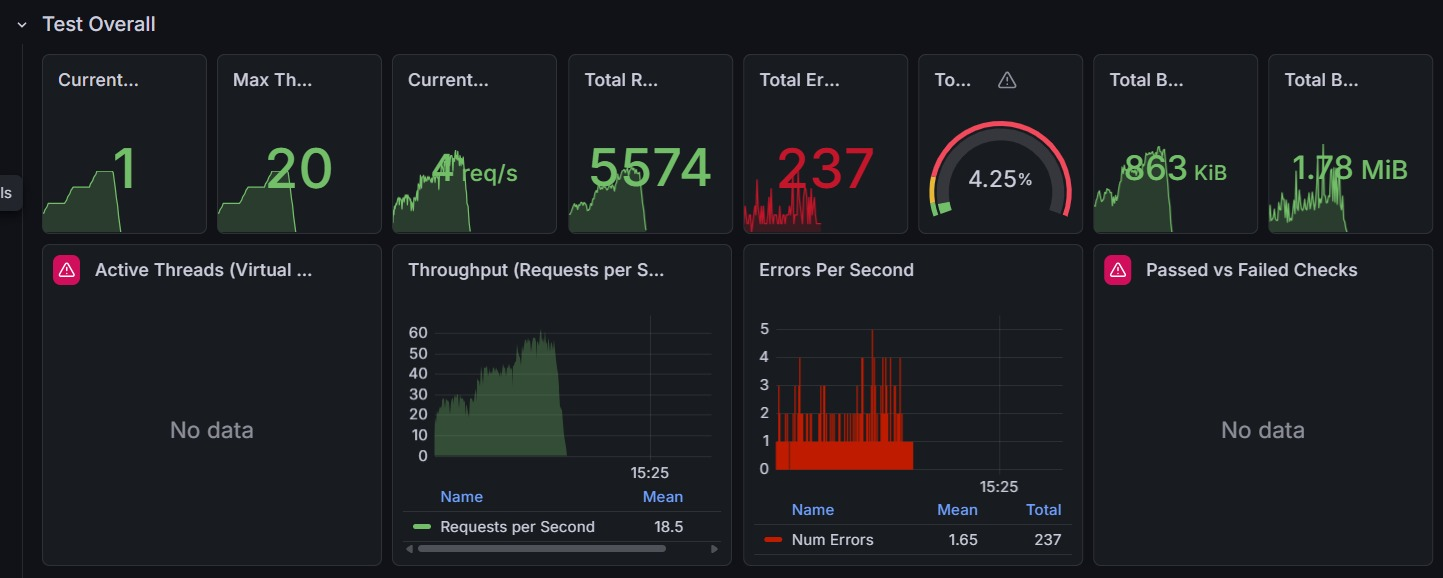
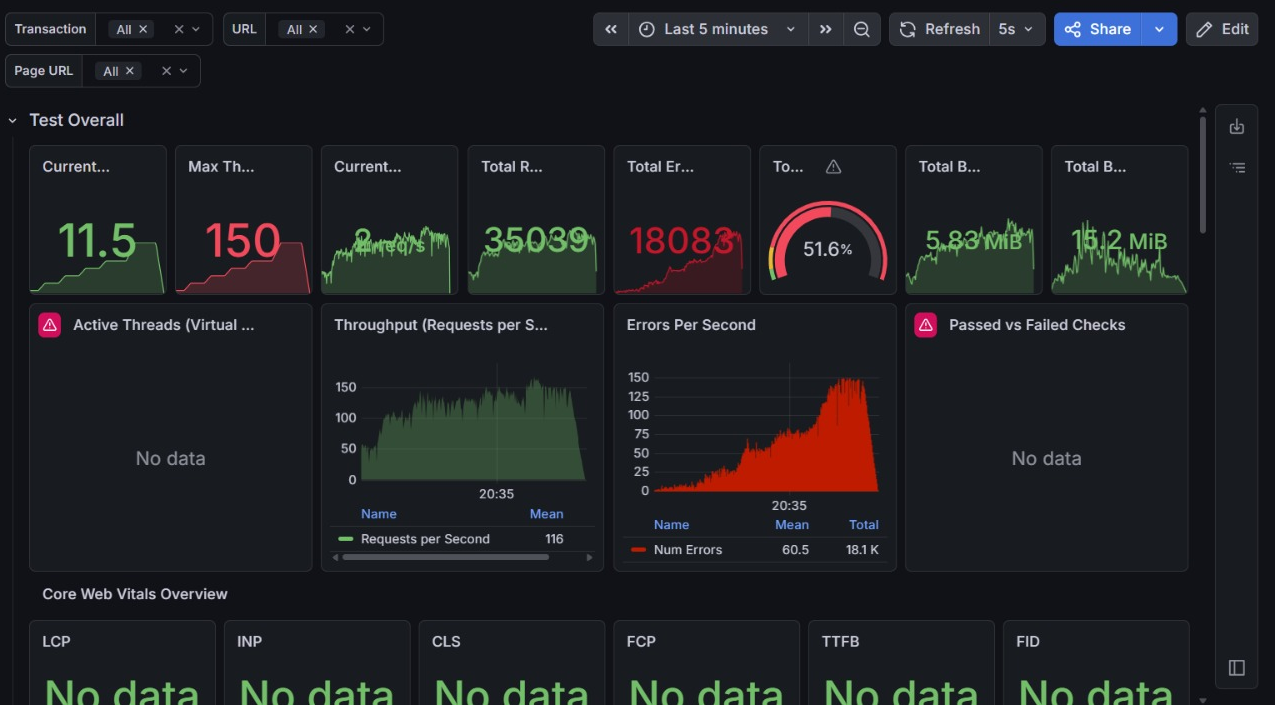
docs: atualização do relatório com o teste de chekout

diff --git a/Teste_De_Carga.md b/Teste_De_Carga.md
@@ -113,16 +113,14 @@ Para garantir alta disponibilidade e atingir nossa meta de SLA (abaixo de 500ms)
 
 **Arquivos envolvidos:**
 
-* UsuarioController.java
-* PatenteController.java
-* CarrinhoController.java
-* AquisicaoController.java
+* [UsuarioController.java](src/main/java/io/github/leonluz/gatewayapi/autenticacao/controller/UsuarioController.java)
+* [PatenteController.java](src/main/java/io/github/leonluz/gatewayapi/patentes/controller/PatenteController.java)
+* [CarrinhoController.java](src/main/java/io/github/leonluz/gatewayapi/pedidos/controller/CarrinhoController.java)
+* [AquisicaoController.java](src/main/java/io/github/leonluz/gatewayapi/pedidos/controller/AquisicaoController.java)
 
 **Arquivos com o código fonte de medição do SLA:**
 
 * teste-aquisicao-checkout.js
-
-**Data da medição:** 01/06/2026
 
 **Descrição das configurações:**
 
@@ -132,23 +130,67 @@ Para garantir alta disponibilidade e atingir nossa meta de SLA (abaixo de 500ms)
 
 * **Ambiente de Teste:** Máquina Windows local, disparos realizados via Windows PowerShell, com monitoramento em tempo real via InfluxDB 1.8.
 
+**MEDIÇÃO 1** (como atualizei o teste, fiz uma nova medição na versão anterior)
+
+**Data da medição:** 05/06/2026
+
 **Testes de carga (SLA):**
 
-* **Latência (Tempo de Resposta Médio - p95):** 18.35 ms
+* **Latência (Tempo de Resposta Médio - p95):** 55.43 ms
 
-* **Vazão:** 21.47 requisições por segundo (Total de 4199 checks realizados).
+* **Vazão:** 89.92 requisições por segundo (Total de 31478 checks realizados).
 
-* **Concorrência:** 20 requisições simultâneas mantidas de forma constante (VUs).
+* **Concorrência:** 150 requisições simultâneas mantidas de forma constante (VUs).
 
-* **Taxa de Erro:** 3.17% (Falhas na validação da transação de aquisição).
+* **Taxa de Erro:** 13.35% (Falhas na validação da transação de aquisição).
 
 ![Imagem teste3 grafana](image-6.png)
 ![Imagem teste3 PowerShell](image-7.png)
 
 **LEVANTAMENTO DE HIPÓTESES dos potenciais gargalos do sistema que influenciam esta funcionalidade:**
 
-**Concorrência no Controle de Estoque (Race Condition):** A taxa de falha de 3.17% pode indicar que o sistema está falhando ao tentar reservar itens em estoque simultaneamente.
+**Concorrência no Controle de Estoque (Race Condition):** A taxa de falha de 13.35% pode indicar que o sistema está falhando ao tentar reservar itens em estoque simultaneamente.
 
 **Saturação do Pool de Conexões:** Como a operação de checkout envolve múltiplas tabelas (Carrinho, Estoque, Transação), se o HikariCP estiver com um limite de conexões baixo, as threads do Tomcat podem ficar em estado de WAITING, esperando uma conexão livre com o MySQL, o que explica a variação na latência em cenários de alta concorrência.
 
 **Latência de Escrita (I/O do Banco):** A necessidade de garantir o ACID em múltiplas inserções de tabelas distintas exige que o MySQL faça o flush dos logs de transação para o disco a cada checkout. Tornando-se um gargalo que limita a vazão (Throughput).
+
+**MEDIÇÃO 2**
+
+**Data da medição:** 05/06/2026
+
+**Testes de carga (SLA):**
+
+* **Latência (Tempo de Resposta Médio - p95):** 82.14 ms
+
+* **Vazão:** 80.68 requisições por segundo (Total de 29958 checks realizados).
+
+* **Concorrência:** 150 requisições simultâneas mantidas de forma constante (VUs).
+
+* **Taxa de Erro:** 0.03% (Falhas na validação da transação de aquisição).
+
+![Imagem teste3 grafana v2](image-13.png)
+![Imagem teste3 PowerShell v2](image-14.png)
+
+**Comparação:**
+
+|   Métricas   |  Medição 1  |  Medição 2  |
+|:------------:|:-----------:|:-----------:|
+|   Latência   |  55.43 ms   |  82.14 ms   |
+|    Vazão     | 84.92 req/s | 80.62 req/s |
+| Concorrência |   150 VUs   |   150 VUs   |
+| Taxa de Erro |   13.35%    |   0.03%     |
+
+**Arquivos modificados:** 
+* [AquisicaoController.java](src/main/java/io/github/leonluz/gatewayapi/pedidos/controller/AquisicaoController.java)
+* [AquisicaoService.java](src/main/java/io/github/leonluz/gatewayapi/pedidos/service/AquisicaoService.java)
+* [PatenteRepository.java](src/main/java/io/github/leonluz/gatewayapi/patentes/repository/PatenteRepository.java)
+* [application.yml](src/main/resources/application.yml)
+* [teste-aquisicao-checkout.js](k6-tests/teste-aquisicao-checkout.js)
+
+**Otimizações:**
+* Melhoria no AquisicaoController para distinguir erros de regras de negócio e falhas de sistema.
+* Inclusão de ordenação dos ids de patentes no AquisicaoService antes do processamento, eliminando a dependência circular, visando evitar deadlock.
+* Implementação do método atualizarStatusEmMassa no PatenteRepository, que realiza a verificação e a atualização das patentes disponíveis em uma única operação SQL, prevenindo race conditions.
+* Ajuste no tamanho do pool e nos tempos de timeout do HikariCP, permitindo que a aplicação suporte maior carga de conexões simultâneas ao banco de dados.
+* Refatoração do teste-aquisicao-checkout para aumentar a concorrência, realizando um stress test na aplicação.
